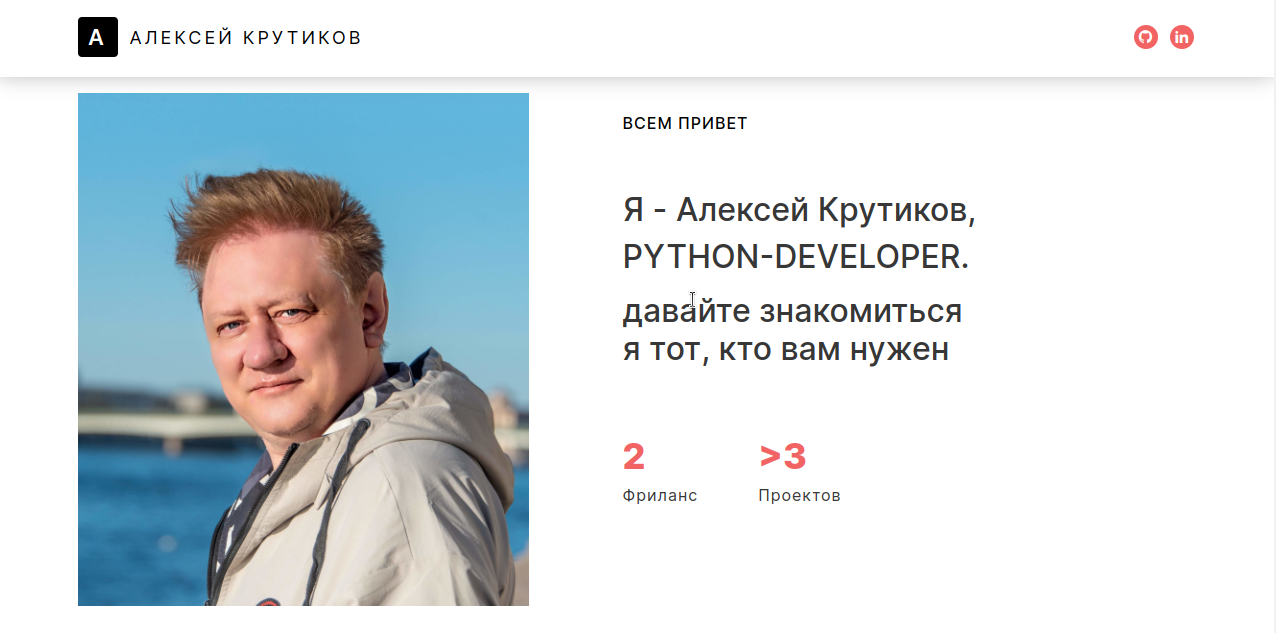
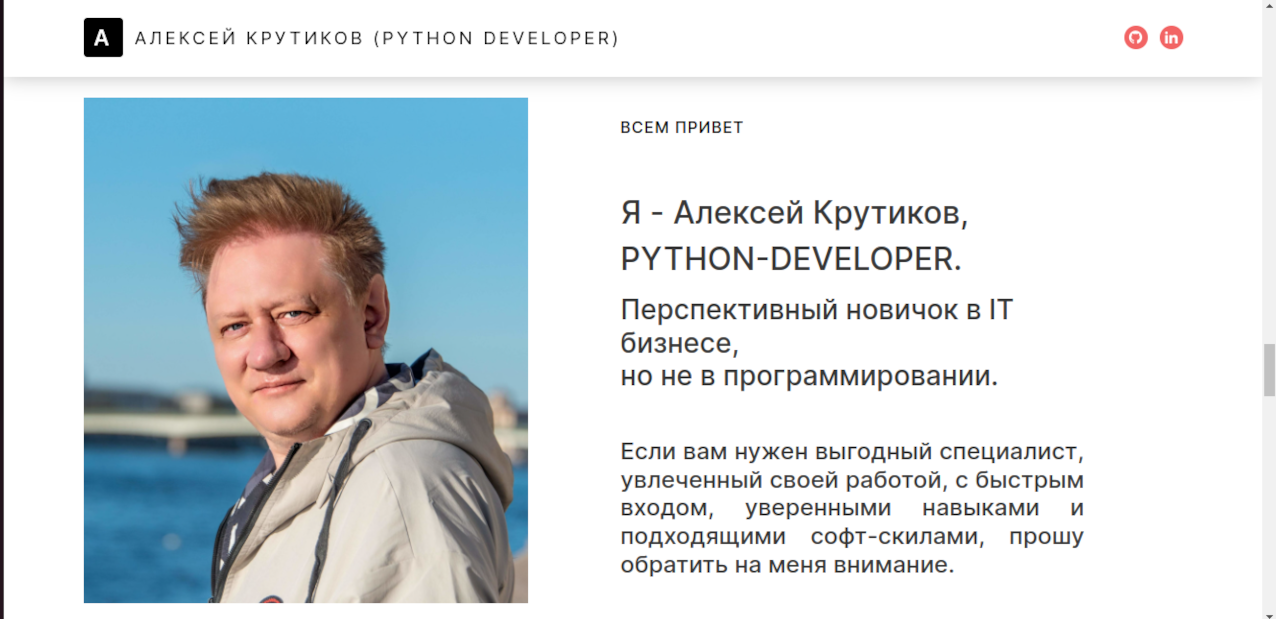
Обновление первого текста и картинки

diff --git a/index.html b/index.html
@@ -48,7 +48,7 @@
             <div class="ds-header-inner">
               <!-- logo -->
               <a href="index.html" class="ds-logo">
-                <span>А</span>Алексей Крутиков
+                <span>А</span>Алексей Крутиков (Python developer)
               </a>
               <!-- logo -->
               <!-- social -->
@@ -75,17 +75,19 @@
                   <div class="col-12 col-sm-12 col-md-7 col-lg-7 col-xl-7 col-xxl-7">
                       <section>
                           <h3 class="ds-work-tilte">Где вы сейчас находитесь?</h3>
-                          <p>Этот проект построен на основе микросервисов. В нем я рассказываю о себе и своем пути в IT.</p>
-                          <p>Тут можно найти сокращенную версию моего резюме и несколько проектов, которые я бы хотел вам
-                              показать. Я планирую дополнять этот сайт новыми фишками и материалами по мере возможностей.
-                                Выкладывать сюда свои новые работы.</p> <p>Все это богатство живет на виртуальном VPS сервере под управлением Ubuntu.
+                          <p>Этот проект построен на основе микросервисов. В нем я рассказываю о себе и своих проектах.</p>
+                          <p>Тут можно скачать актуальную версию резюме, посмотреть мои проекты и найти контактную информацию.
+                              Я дополняю сайт новыми фишками и материалами по мере возможностей.
+                                Выкладываю сюда свои новые работы.</p>
+                          <p>Предлагаю ознакомиться и пригласить меня на работу.</p>
+                          <p>Все это богатство живет на виртуальном VPS сервере под управлением Ubuntu.
                                 Каждое приложение (сайт) находится в своем Docker контейнере, а управление трафиком
                                 возложено на обратный прокси-сервер Nginx.</p>
                           <a href="#banner" class="ds-button" id="exit">Обо мне</a>
                           <a href="Алексей Крутиков python_dev.pdf" download="" class="ds-button">Скачать резюме</a>
                       </section>
                   </div>
-                  <div class="col-12 col-sm-12 col-md-5 col-lg-5 col-xl-5 col-xxl-5">
+                  <div class="col-12 col-sm-12 col-md-5 col-lg-5 col-xl-5 col-xxl-5"><br>
                       <figure><img src="assets/images/this_1.png"><img src="assets/images/this_2.png">
                       <img src="assets/images/this_3.png"></figure>
                   </div>
